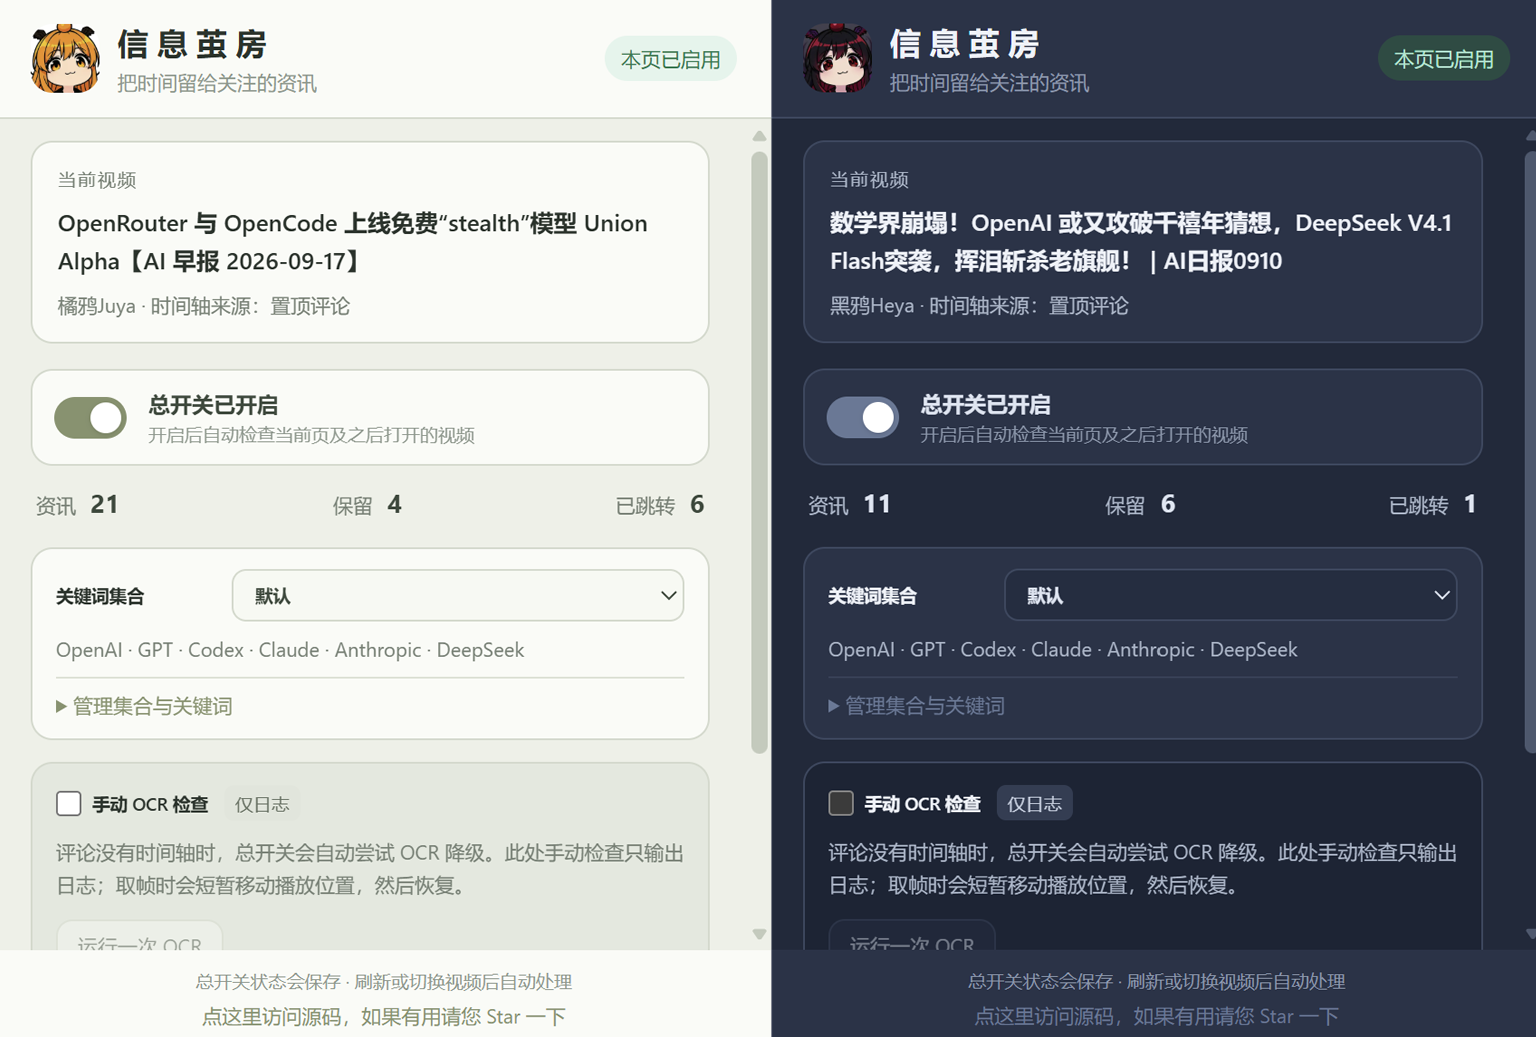
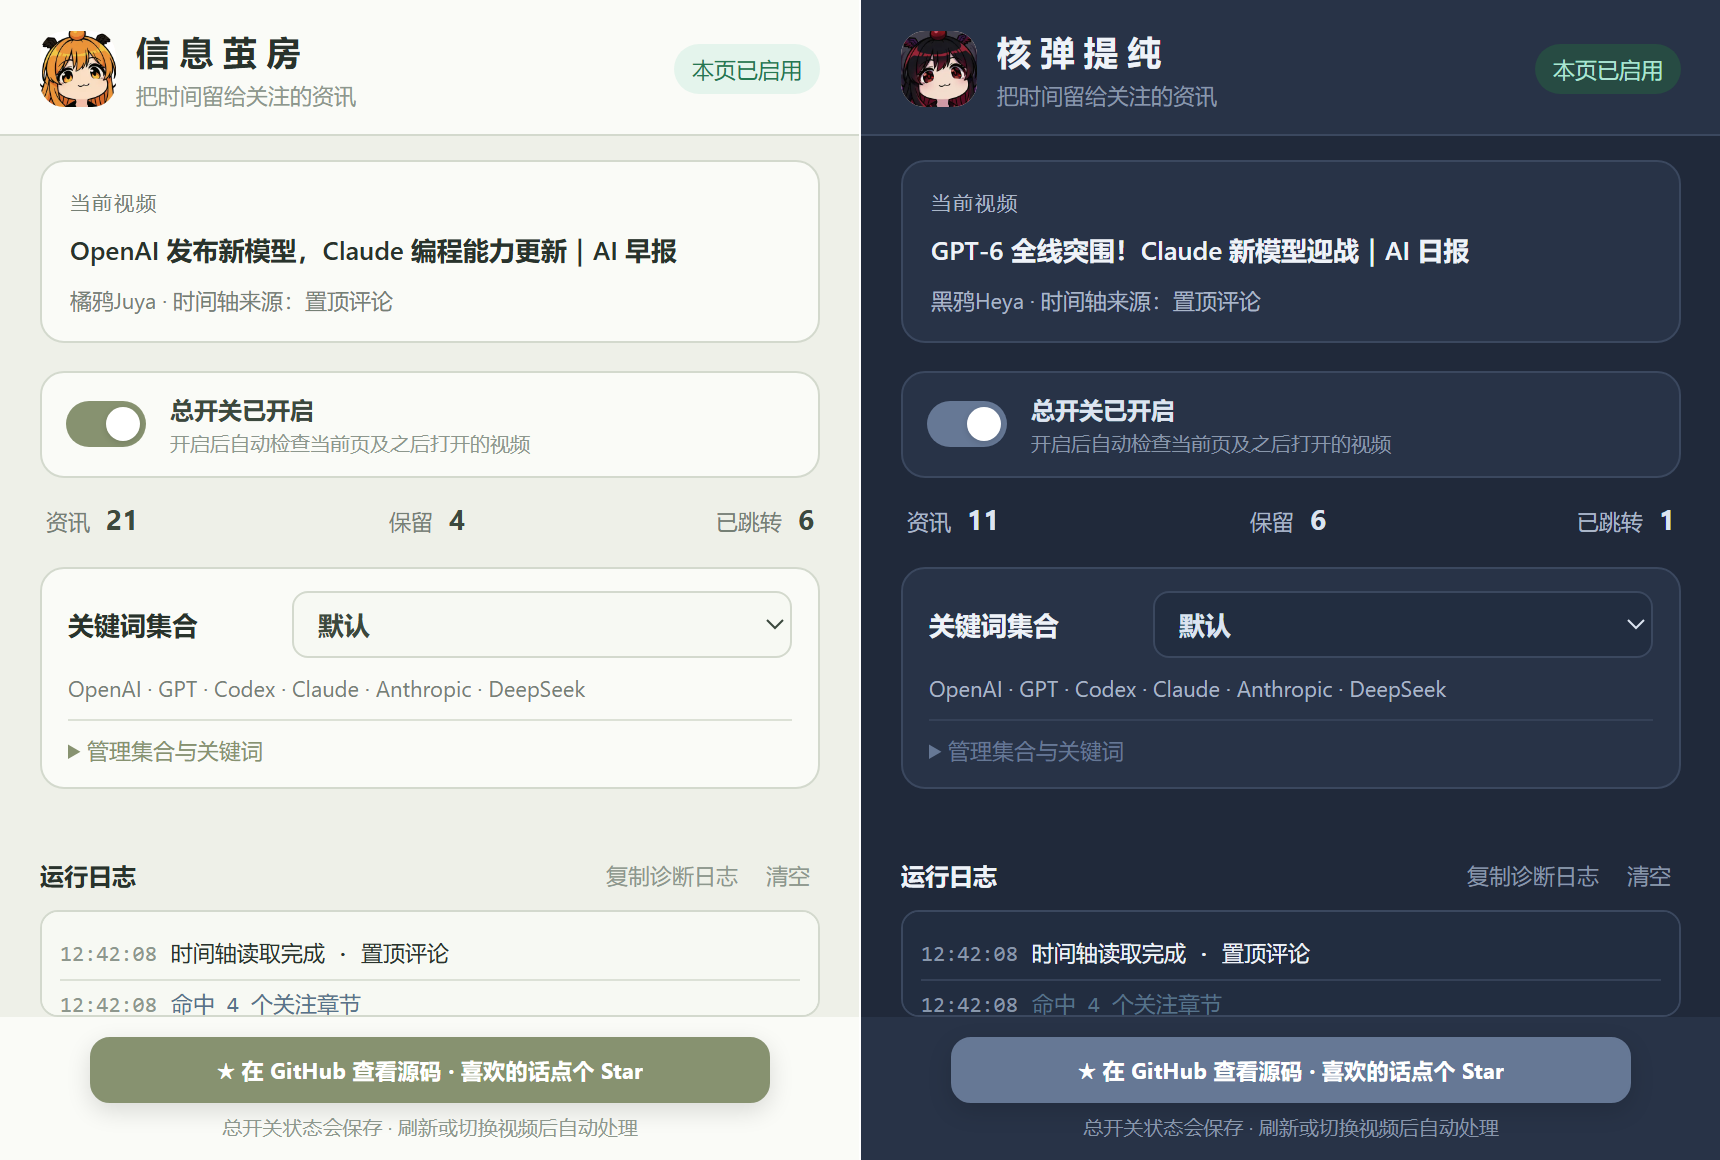
Update README

diff --git a/popup.css b/popup.css
@@ -127,10 +127,13 @@ body[data-theme="heya"] .badge.active{background:#274b43;color:#aee4d3}
 body[data-theme="heya"] .badge.busy{background:#544628;color:#f1d790}
 body[data-theme="heya"] #error{background:#4a2d36;color:#ffc5cf}
 .source-link{
-  display:inline-flex;align-items:center;padding:6px 11px;border:1px solid var(--theme-border);
-  border-radius:999px;background:var(--theme-surface-alt);font-weight:600;line-height:1.2;
-  box-shadow:0 1px 2px #0001;transition:background .15s,border-color .15s,transform .15s
+  display:inline-flex;align-items:center;justify-content:center;width:100%;max-width:340px;
+  padding:9px 14px;border:1px solid var(--theme-accent);border-radius:10px;
+  background:var(--theme-accent);color:var(--theme-accent-text);font-size:11px;font-weight:700;
+  line-height:1.2;letter-spacing:.15px;box-shadow:0 4px 12px #0002;
+  transition:background .15s,border-color .15s,box-shadow .15s,transform .15s
 }
 .source-link:hover{
-  background:var(--theme-badge);border-color:var(--theme-accent);text-decoration:none;transform:translateY(-1px)
+  background:var(--theme-accent-hover);border-color:var(--theme-accent-hover);color:var(--theme-accent-text);
+  box-shadow:0 6px 16px #0003;text-decoration:none;transform:translateY(-1px)
 }

diff --git a/popup.html b/popup.html
@@ -28,9 +28,9 @@
     <section class="log-section"><div class="log-head"><h2>运行日志</h2><div class="log-actions"><button id="copy-logs" class="text-button" disabled>复制诊断日志</button><button id="clear" class="text-button" disabled>清空</button></div></div><div id="logs" tabindex="0" aria-label="运行日志"><p class="empty">开启后，时间轴与实际跳转会显示在这里。</p></div></section>
   </main>
   <footer>
-    <span>总开关状态会保存 · 刷新或切换视频后自动处理</span>
     <a class="source-link" href="https://github.com/fumingyang2004/information-cocoon"
-      target="_blank" rel="noopener noreferrer">★ 访问源码 · 如果有用，请 Star 一下</a>
+      target="_blank" rel="noopener noreferrer">★ 在 GitHub 查看源码 · 喜欢的话点个 Star</a>
+    <span>总开关状态会保存 · 刷新或切换视频后自动处理</span>
   </footer>
   <script src="creator-config.js"></script>
   <script src="keyword-config.js"></script>
